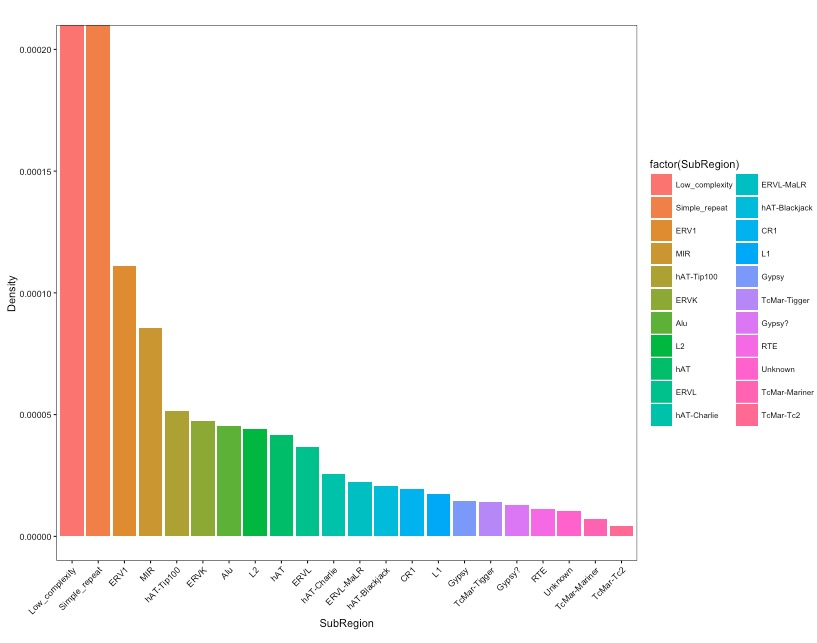
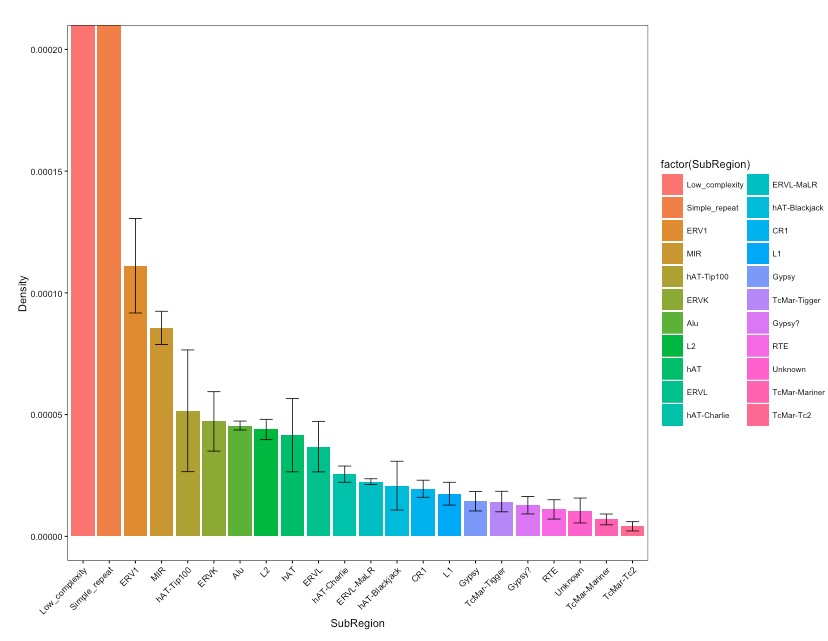
Adding for Rstudio fetching data.

Changed region(s): [[0.0, 0.0312, 1.0, 0.9984]]

diff --git a/_posts/Spark/2016-06-21-SparkHelloWorld2.md b/_posts/Spark/2016-06-21-SparkHelloWorld2.md
@@ -248,13 +248,14 @@ sdf_local <- fread('/Software/hadoop-2.6.0/bin/hdfs dfs -text "hdfs://tanglab1:9
 
 colnames(sdf_local) <- c("Region",	"SubRegion",	"MeanValue",	"StdValue",	"CountValue",	"CountNA")
 df_order <- sdf_local[CountValue > 5000][order(MeanValue, decreasing = T)]
-
+df_order$Se <- df_order$StdValue / df_order$CountValue**0.5
 df_order$SubRegion <- factor(df_order$SubRegion, levels = unique(df_order$SubRegion))
 
 theme<-theme(panel.background = element_blank(),panel.border=element_rect(fill=NA),panel.grid.major = element_blank(),panel.grid.minor = element_blank(),strip.background=element_blank(),axis.text.x=element_text(colour="black"),axis.text.y=element_text(colour="black"),axis.ticks=element_line(colour="black"),plot.margin=unit(c(5,1,1,1),"line"))
 
 p<-ggplot(df_order,aes(x=SubRegion,y=MeanValue, fill=factor(SubRegion)))
 p<-p+geom_bar(position=position_dodge(), stat="identity")+
+  geom_errorbar(aes(ymin=MeanValue-1.96*Se,ymax=MeanValue+1.96*Se),width=0.5,size=0.4,position=position_dodge(.9))+
   ylab("Density")+labs(title="")+
   theme(axis.text.x=element_text(angle=45,hjust=1),legend.key=element_rect(fill=NA),legend.text = element_text(size=8))+theme
 
